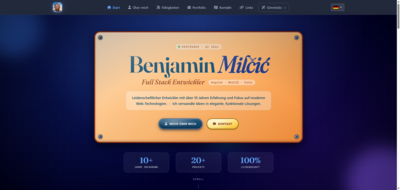
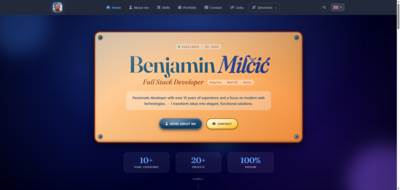
images changed

diff --git a/src/app/pages/home/components/portfolio/portfolio.component.ts b/src/app/pages/home/components/portfolio/portfolio.component.ts
@@ -14,7 +14,7 @@ export class PortfolioComponent {
   constructor(
     public homeService: HomeService,
     public translate: TranslateService,
-    private router: Router
+    private router: Router,
   ) {}
 
   get gameCollectionImage(): string {
@@ -22,6 +22,13 @@ export class PortfolioComponent {
     const supported = ['de', 'en', 'hr'];
     const suffix = supported.includes(lang) ? lang : 'en';
     return `assets/game-collection-${suffix}.webp`;
+  }
+
+  get gimmicksImage(): string {
+    const lang = this.translate.currentLang;
+    const supported = ['de', 'en', 'hr'];
+    const suffix = supported.includes(lang) ? lang : 'en';
+    return `assets/gimmicks-${suffix}.webp`;
   }
 
   closeDialog(dialog: HTMLDialogElement) {
@@ -33,8 +40,12 @@ export class PortfolioComponent {
     dialog.showModal();
     this.homeService.overflowHidden = true;
 
-    dialog.addEventListener('close', () => {
-      this.homeService.overflowHidden = false;
-    }, { once: true });
+    dialog.addEventListener(
+      'close',
+      () => {
+        this.homeService.overflowHidden = false;
+      },
+      { once: true },
+    );
   }
 }

diff --git a/src/app/pages/home/components/portfolio/portfolio.component.html b/src/app/pages/home/components/portfolio/portfolio.component.html
@@ -380,7 +380,7 @@
           <div class="bottom-circle"></div>
         </div>
         <div class="proj-thumb">
-          <img src="assets/gimmicks.webp" alt="Gimmicks" />
+          <img [src]="gimmicksImage" alt="Gimmicks" />
         </div>
         <div class="proj-info">
           <h3 class="proj-h">Gimmicks</h3>
